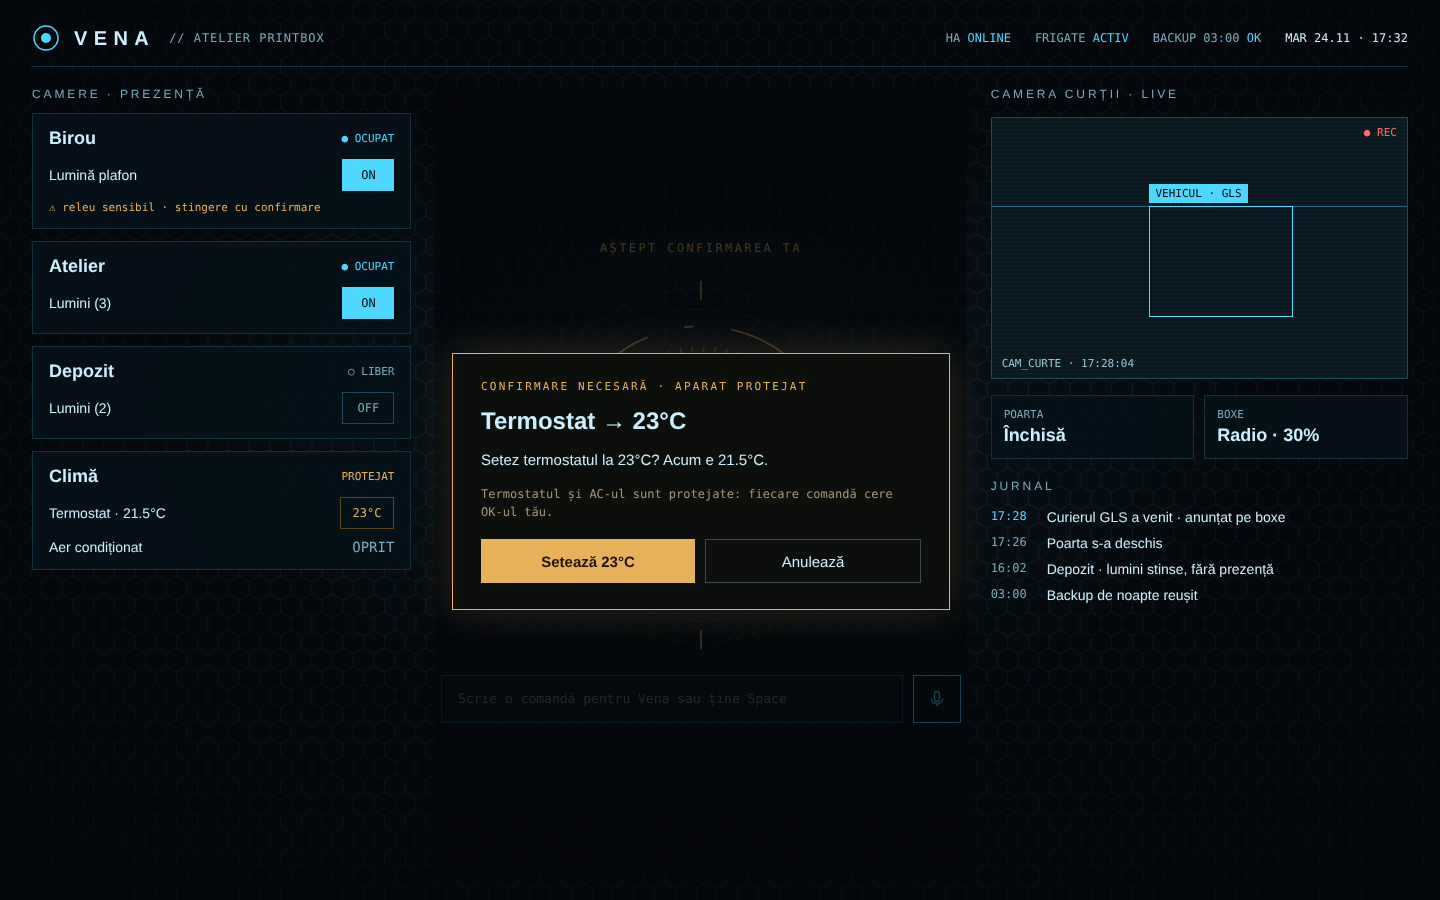
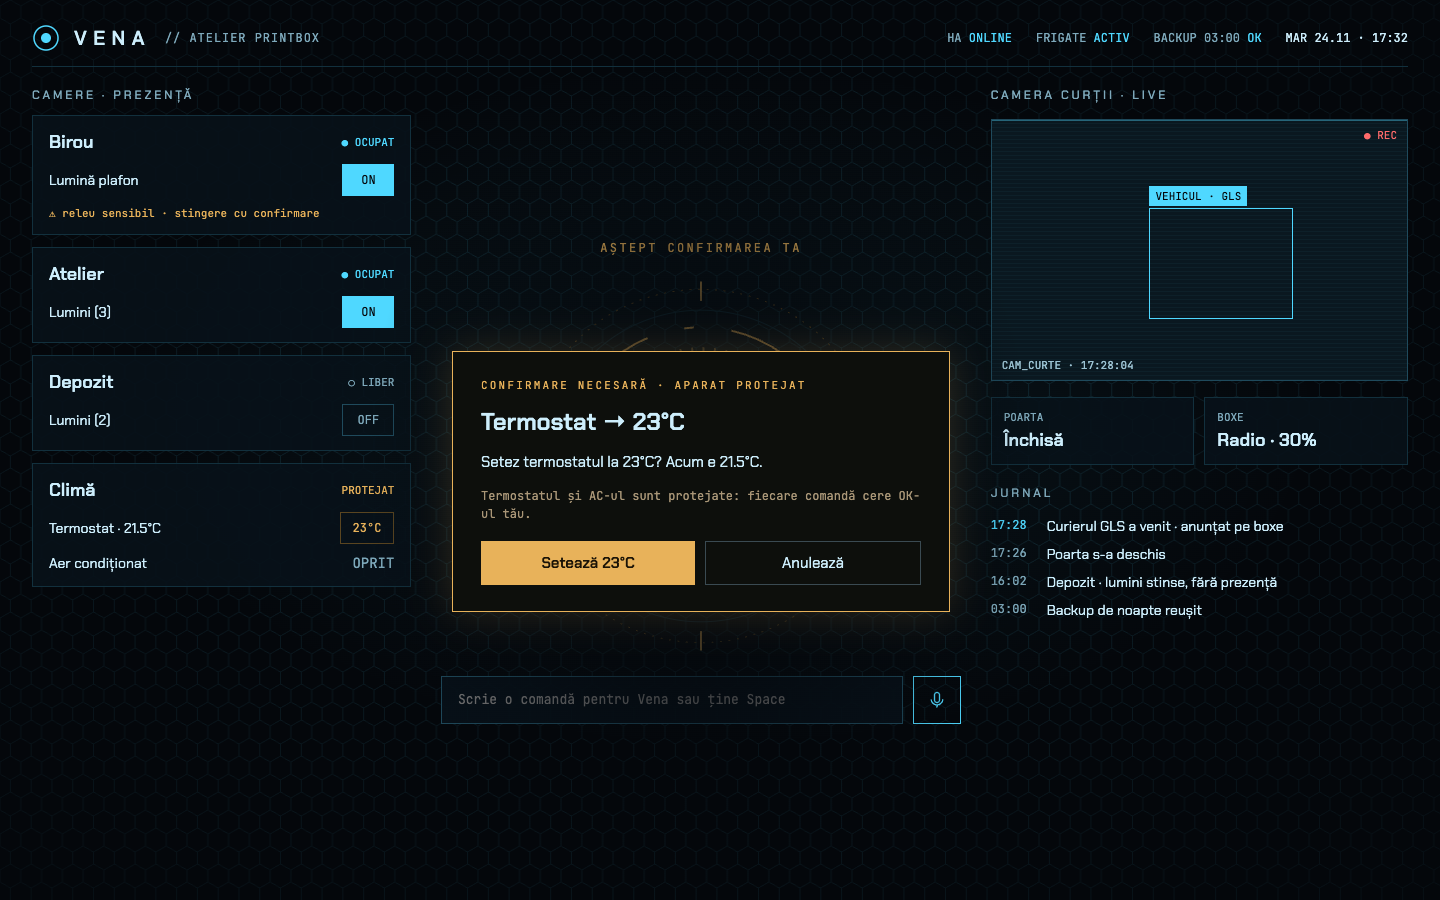
Confirmare: referința statică și screenshot-ul actualizate; via <agent> din HA (fără potrivire pe text); template de issue, INSTALL în repo-ul public; changelog 0.0.1

diff --git a/ui/src/live/assistant.ts b/ui/src/live/assistant.ts
@@ -19,8 +19,8 @@ export interface Exchange {
   error?: boolean;
   /** Din intent-end: true = comenzile locale din HA; false = agentul de conversație. Lipsă la HA vechi. */
   processedLocally?: boolean;
-  /** Agentul de conversație al pipeline-ului (entity_id), pentru eticheta „via …”. */
-  agentId?: string;
+  /** Numele agentului de conversație din pipeline, așa cum îl întoarce HA (conversation/agent/list). */
+  agentName?: string;
   at: number;
 }
 
@@ -56,6 +56,7 @@ export class AssistantEngine {
   state: AssistantState = { phase: 'idle', heard: '', last: null, micOpen: false, micActive: false, micMessage: null, pipelineHint: '' };
   private pipeline: Pipeline | undefined;
   private conversationId: string | null = null;
+  private agentName: string | undefined;
   private audio = new Audio();
   private runEnded = true;
   // voce
@@ -108,6 +109,9 @@ export class AssistantEngine {
       const res = await this.conn.send<{ pipelines: Pipeline[]; preferred_pipeline: string }>('assist_pipeline/pipeline/list');
       this.pipeline = res.pipelines.find((p) => p.id === res.preferred_pipeline) ?? res.pipelines[0];
       this.set({ pipelineHint: this.pipeline ? `pipeline ${this.pipeline.name}` : '' });
+      const agents = await this.conn.send<{ agents: { id: string; name?: string }[] }>('conversation/agent/list').catch(() => null);
+      const name = agents?.agents.find((a) => a.id === this.pipeline?.conversation_engine)?.name;
+      this.agentName = name?.trim() || undefined;
     } catch {
       this.pipeline = undefined;
     }
@@ -148,7 +152,7 @@ export class AssistantEngine {
                 targets,
                 error: resp.response_type === 'error',
                 processedLocally: typeof d.processed_locally === 'boolean' ? d.processed_locally : undefined,
-                agentId: this.pipeline?.conversation_engine,
+                agentName: this.agentName,
                 at: Date.now(),
               },
             });

diff --git a/ui/src/live/useLive.ts b/ui/src/live/useLive.ts
@@ -260,13 +260,8 @@ export function useLive(): { model: ScreenModel | null; actions: ScreenActions; 
     else if (asst.phase === 'processing') conversation = { kind: 'processing', text: asst.heard || '…', hint: asst.pipelineHint };
     else if (recent) {
       const chip = recent.targets.length && !recent.error ? `${recent.targets.map((x) => x.name).join(', ').toUpperCase()} · ACUM` : undefined;
-      // Cine a procesat cererea: comenzile locale din HA sau agentul (Haiku la Ionuț).
-      let via: string | undefined;
-      if (recent.processedLocally === true) via = 'local';
-      else if (recent.processedLocally === false) {
-        const agent = recent.agentId ? String(states.get(recent.agentId)?.attributes.friendly_name ?? recent.agentId) : 'agent';
-        via = /haiku/i.test(agent) ? 'Haiku' : agent;
-      }
+      // Cine a procesat cererea: comenzile locale din HA sau agentul din pipeline (numele dat de HA).
+      const via = recent.processedLocally === true ? 'local' : recent.processedLocally === false ? (recent.agentName ?? 'AI') : undefined;
       conversation = { kind: 'responding', you: recent.you || '—', answer: recent.answer || '(fără răspuns)', chip, via };
     } else conversation = { kind: 'greeting', title: greeting(now, opts.user_name), summary: summary(rooms, journal, events, t) };
 

diff --git a/design/static/05-confirmare.html b/design/static/05-confirmare.html
@@ -125,7 +125,7 @@ a{color:#4fd8ff}a:hover{color:#9be9ff}
       </div>
 
       
-        <div role="dialog" aria-modal="true" aria-labelledby="05-confirmare-cf" style="position: absolute; inset: 0; display: flex; align-items: center; justify-content: center; background: rgba(4,7,11,0.72)">
+        <div role="dialog" aria-modal="true" aria-labelledby="05-confirmare-cf" style="position: absolute; top: -40px; bottom: -40px; left: -14%; right: -14%; z-index: 2; display: flex; align-items: center; justify-content: center; background: radial-gradient(ellipse 50% 50% at 50% 50%, rgba(4,7,11,0.82) 0%, rgba(4,7,11,0.6) 40%, rgba(4,7,11,0.25) 70%, rgba(4,7,11,0) 100%)">
           <div style="width: 100%; max-width: 440px; border: 1px solid #e8b25a; background: #0d0f0c; padding: 26px 28px; display: flex; flex-direction: column; gap: 14px; box-shadow: 0 0 40px rgba(232,178,90,0.18)">
             <div style="font-family: 'JetBrains Mono', monospace; font-size: 11px; letter-spacing: 0.2em; color: #e8b25a">CONFIRMARE NECESARĂ · APARAT PROTEJAT</div>
             <h2 id="05-confirmare-cf" style="margin: 0; font-size: 24px; font-weight: 600">Termostat → 23°C</h2>

diff --git a/INSTALL-FOR-CLAUDE.md b/INSTALL-FOR-CLAUDE.md
@@ -11,12 +11,12 @@ Vena e un add-on (app) de Home Assistant cu ingress: o interfață HUD peste HA.
 - Vena **nu are logică proprie de înțelegere**. Trimite textul și vocea în pipeline-ul Assist implicit din HA, iar HA decide: întâi comenzile locale, apoi Claude Haiku pentru restul. Configurația existentă la Ionuț rămâne neschimbată.
 - Haiku poate controla doar entitățile expuse în **Settings → Voice assistants → Expose**. Ce nu e expus (termostatul, AC-ul, poarta) nu se poate comanda vocal, nici din Vena. E intenționat, nu e o eroare.
 - Dacă Ionuț vrea ca Vena să înțeleagă la voce o entitate nouă, o expune acolo, cu OK-ul lui.
-- Sub răspuns, Vena afișează discret „via local” sau „via Haiku”, ca să se vadă cine a procesat cererea. Informația vine de la HA (`processed_locally` din evenimentul `intent-end`).
+- Sub răspuns, Vena afișează discret „via local” sau „via <numele agentului>” (numele agentului de conversație din pipeline, exact cum îl dă HA; „via AI” dacă HA nu dă un nume), ca să se vadă cine a procesat cererea. Informația vine de la HA (`processed_locally` din evenimentul `intent-end`).
 
 ## Pași
 
 1. **Adaugă repo-ul în HA.** Mergi la Settings → Apps (Add-ons) → Store → meniul ⋮ → Repositories și adaugă URL-ul repo-ului Vena: `https://github.com/danielvinersar21/vena-assistant`.
-   Dacă repo-ul e privat: copiază folderul `vena/` în `/addons/vena` (din File editor sau Samba), apoi apasă Check for updates în Store. Apare la „Local add-ons”.
+   Imaginea e gata construită (GHCR), deci instalarea doar o descarcă; nu se construiește nimic pe NAS.
 2. **Instalează Vena**, apoi pornește-o și activează „Show in sidebar”. Lasă „Start on boot” pornit.
 3. **Opțiuni** (fila Configuration), cu OK de la Ionuț pentru fiecare:
    - `assistant_name: Vena` (sau alt nume ales de el), `user_name: Ionuț`;
@@ -35,3 +35,26 @@ Vena e un add-on (app) de Home Assistant cu ingress: o interfață HUD peste HA.
 - „Nu se conectează”: verifică în log-ul add-on-ului că `homeassistant_api` e activ și că proxy-ul `ws://supervisor/core/websocket` răspunde.
 - „Nu apar camerele”: verifică entitățile `camera.*` de la Frigate și log-ul pentru `camera_proxy_stream`.
 - Probleme de resurse (VM-ul are 4 GB, cu Frigate pornit): Vena ar trebui să folosească sub 50 MB RAM. Dacă folosește mult mai mult, oprește add-on-ul și anunță.
+
+## Cum raportezi o problemă
+
+Orice problemă merge ca issue pe GitHub, cu template-ul „Problemă Vena”: https://github.com/danielvinersar21/vena-assistant/issues/new?template=problema-vena.yml
+
+Dacă ai `gh` și Ionuț îți dă OK, îl poți deschide direct, cu aceleași secțiuni ca template-ul:
+
+```sh
+gh issue create --repo danielvinersar21/vena-assistant --label bug --title "[Problemă] <pe scurt>" --body "### Ce s-a întâmplat
+...
+### Pașii care au dus la eroare
+1. ...
+### Versiunea Vena
+0.0.1
+### Versiunea Home Assistant
+...
+### Log-ul add-on-ului
+(Settings → Apps → Vena → Log, ultimele linii din jurul erorii)
+### Browserul folosit
+..."
+```
+
+Înainte să trimiți, scoate din log și din text tokenurile, parolele și adresa `ts.net`: repo-ul e public.

diff --git a/public-repo/README.md b/public-repo/README.md
@@ -5,3 +5,5 @@ Interfață HUD pentru Home Assistant, livrată ca app (add-on) cu ingress.
 Adaugă repo-ul în Home Assistant: **Settings → Apps → Store → ⋮ → Repositories** și lipește URL-ul acestui repo. Apoi instalează **Vena**.
 
 Repo-ul conține doar configurarea app-ului. Imaginea e construită și publicată separat, pe GHCR (`amd64`, `aarch64`), deci Home Assistant nu construiește nimic local.
+
+**Versiune beta.** Pentru instalare cu Claude: [INSTALL-FOR-CLAUDE.md](INSTALL-FOR-CLAUDE.md). Problemele se raportează ca [issue](https://github.com/danielvinersar21/vena-assistant/issues/new?template=problema-vena.yml), cu template-ul „Problemă Vena”.

diff --git a/vena/CHANGELOG.md b/vena/CHANGELOG.md
@@ -1,4 +1,8 @@
 # Changelog
 
-## 0.0.1
-- Spike: proxy WebSocket, chat text și voce prin Assist.
+## 0.0.1 (beta)
+- Ecranul HUD: zonele din HA cu prezență și lumini, camera curții, jurnalul, bara de stare.
+- Chat text și voce (push-to-talk: ține Space sau butonul de microfon) prin pipeline-ul Assist existent, cu eticheta „via local / via <agent>”.
+- Confirmare obligatorie pentru aparatele protejate; poarta și entitățile read-only doar se afișează.
+- Starea offline cu reconectare automată.
+- Microfonul se deschide doar la apăsare, cu indicator vizibil, și se închide când tab-ul pierde focusul.
